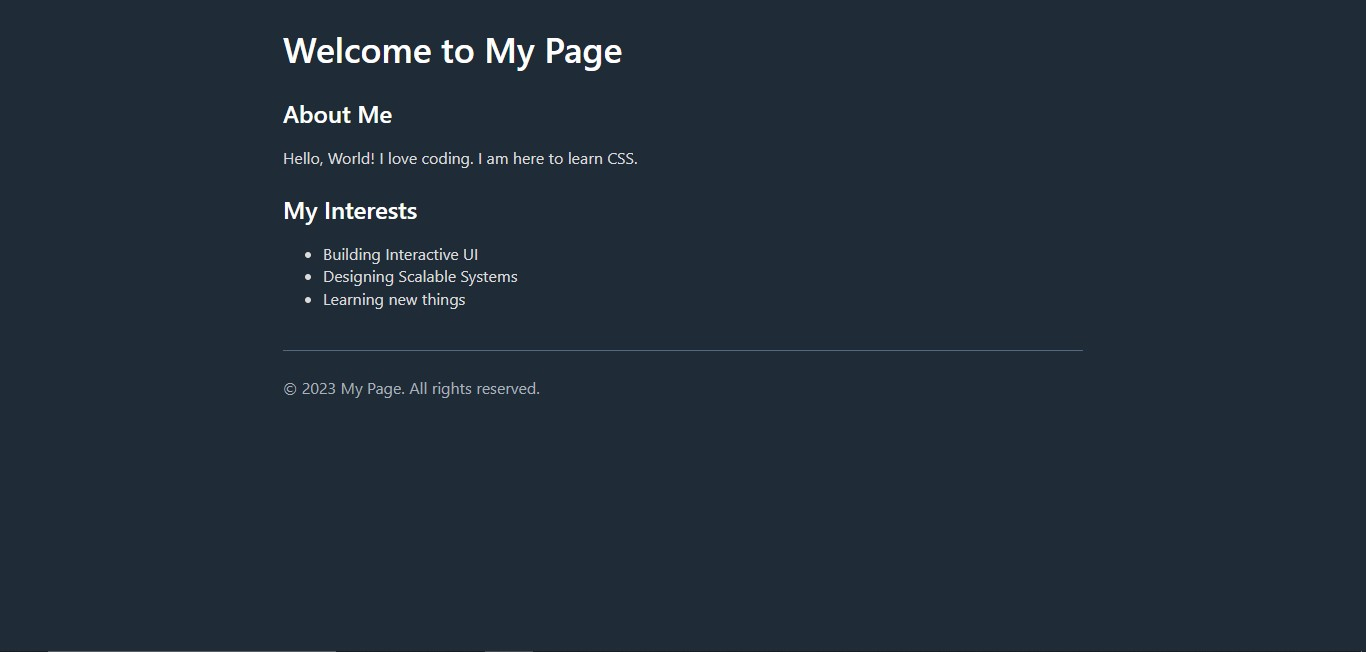
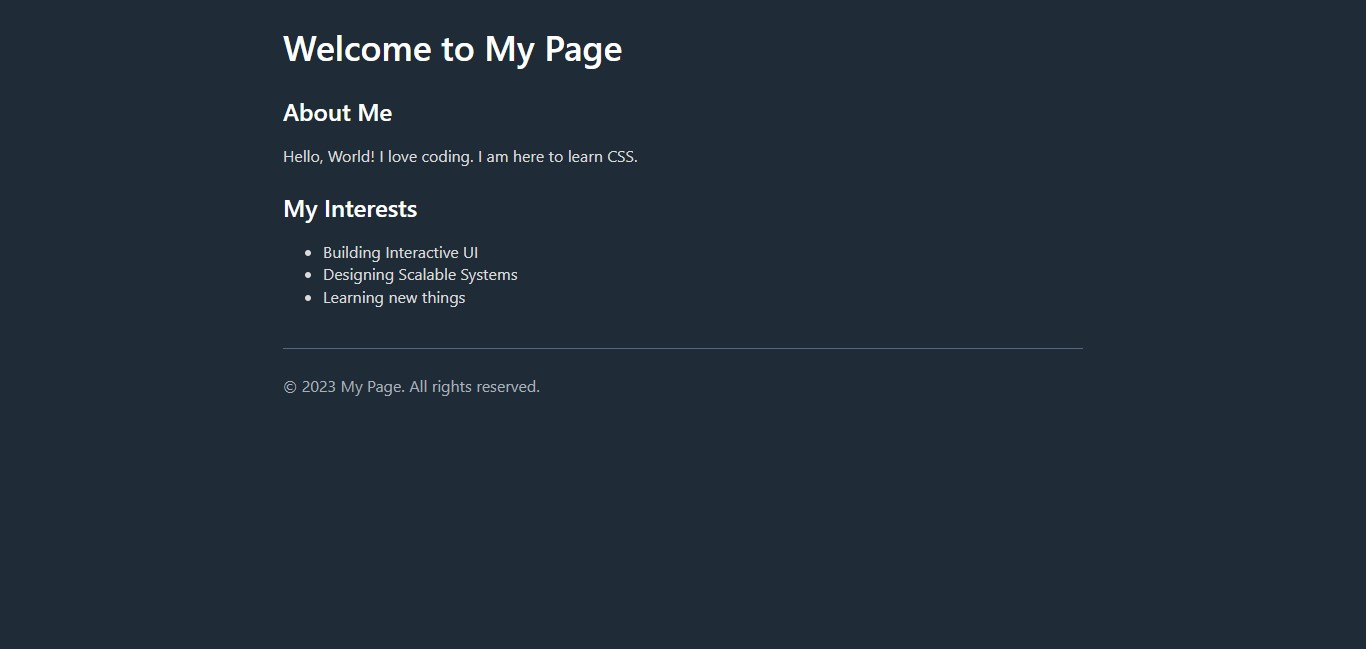
spcss external link

diff --git a/index.html b/index.html
@@ -4,14 +4,10 @@
     <title>My Personal Website</title>
     <meta name="viewport" content="width=device-width, initial-scale=1.0" />
     <meta charset="UTF-8" />
-    <!-- Water.css -->
-    <link
-      type="text/css"
-      rel="stylesheet"
-      href="https://cdn.jsdelivr.net/npm/water.css@2/out/water.css"
-    />
+
     <!-- Styles -->
-    <!-- <style>
+    <!-- 
+    <style>
       .container {
         font-family: "Segoe UI", Tahoma, Geneva, Verdana, sans-serif;
         margin: 0;
@@ -38,7 +34,24 @@
         bottom: 0;
         width: 100%;
       }
-    </style> -->
+    </style> 
+    -->
+
+    <!-- Water.css -->
+    <!-- 
+    <link
+      type="text/css"
+      rel="stylesheet"
+      href="https://cdn.jsdelivr.net/npm/water.css@2/out/water.css"
+    /> 
+    -->
+
+    <!-- Spcss -->
+    <link
+      type="text/css"
+      rel="stylesheet"
+      href="https://cdn.jsdelivr.net/npm/spcss@0.9.0"
+    />
   </head>
   <body class="container">
     <header class="header-section">

diff --git a/docs/CSS-101.md b/docs/CSS-101.md
@@ -1,5 +1,13 @@
 # CSS-101
 
+## inline style to style tag
+
+![style-tag](../images/1-inline-to-style-tag.jpg)
+
 ## water-css
 
 ![water-css](../images/2-water-css.jpg)
+
+## spcss
+
+![spcss](../images/3-spcss.jpg)
